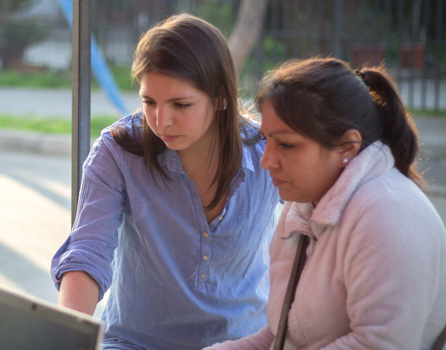
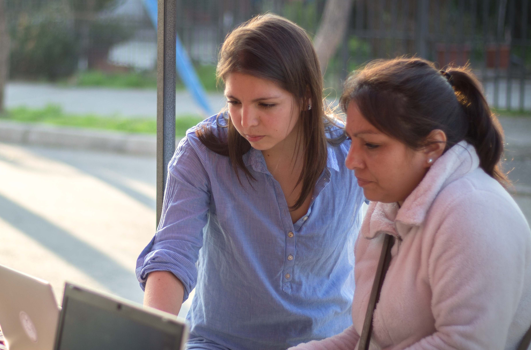
Fixes hero image and SVG

diff --git a/_includes/evaluation-img.html b/_includes/evaluation-img.html
@@ -1,7 +1,6 @@
-<svg xmlns="http://www.w3.org/2000/svg" width="100%" height="138" viewBox="0 0 178 138" xmlns:xlink="http://www.w3.org/1999/xlink">
+<svg xmlns="http://www.w3.org/2000/svg" width="178" height="138" viewBox="0 0 178 138" xmlns:xlink="http://www.w3.org/1999/xlink">
     <defs>
         <path id="a" d="M19.985.299v19.357H.115V.299h19.87z"/>
-        <path id="c" d="M0 42.822V.126h51.929v42.696z"/>
     </defs>
     <g fill="none" fill-rule="evenodd">
         <path fill="#FF8964" d="M104.348 106.893h-78.71v-9.491h3.266v6.419h75.444zM107.287 91.044h-3.266V10.431l-75.118-.59v37.694h-3.265V6.745l81.649.639z"/>
@@ -21,13 +20,6 @@
             <path fill="#FF8964" d="M7.367 19.01L.115 16.215 7.055.299l7.252 2.797c4.673 1.803 6.908 6.827 4.992 11.22-1.917 4.396-7.259 6.497-11.932 4.695" mask="url(#b)"/>
         </g>
         <path fill="#2D4059" d="M164.244 126.545l-3.021-1.166 4.708-10.798 3.022 1.166z"/>
-        <path fill="#FF5722" d="M108.576 119.017l-3.02-1.166 12.838-29.445c1.326-3.038 5.116-4.465 8.448-3.18 3.311 1.278 4.944 4.76 3.664 7.786l-2.026 5.85-3.105-.951 2.085-6.008c.641-1.471-.192-3.191-1.859-3.834-1.665-.644-3.543.03-4.185 1.503l-12.84 29.445zm39.352 14.183l-3.021-1.166 12.393-28.418c.683-1.568-.116-3.365-1.783-4.008-.807-.311-1.693-.308-2.499.008-.805.316-1.431.909-1.762 1.668l-.064.13-2.436 4.372-2.893-1.425 2.403-4.313c.67-1.484 1.907-2.642 3.491-3.265 1.609-.634 3.386-.641 5-.017 3.332 1.285 4.931 4.88 3.565 8.015L147.928 133.2zM38.62 78.632l-.163-3.068 9.88-.462c1.8 0 3.265-1.378 3.265-3.072 0-1.693-1.465-3.072-3.266-3.072l-.08-.001-9.799-.461.163-3.068 9.76.459c3.582.022 6.488 2.769 6.488 6.143 0 3.373-2.906 6.12-6.488 6.144l-9.76.458zM26.406 56.584l-3.168-.745 2.448-9.215c.89-3.344 3.89-5.771 7.138-5.771 3.74 0 7.02 2.87 7.02 6.144v9.214H36.58v-9.214c0-1.58-1.825-3.072-3.756-3.072-2.005 0-3.514 1.732-3.97 3.444l-2.448 9.215z"/>
-        <path fill="#FF5722" d="M38.617 88.769L38.46 85.7l10.203-.463c1.801 0 3.266-1.378 3.266-3.072 0-1.693-1.465-3.071-3.266-3.071l-.079-.002-10.124-.461.157-3.068 10.088.459c3.583.022 6.49 2.769 6.49 6.143 0 3.375-2.907 6.123-6.49 6.144l-10.088.459z"/>
-        <g transform="translate(0 55.624)">
-            <mask id="d" fill="#fff">
-                <use xlink:href="#c"/>
-            </mask>
-            <path fill="#FF5722" d="M43.764 42.822L9.3 42.669c-6.102 0-9.3-10.74-9.3-21.348C0 9.256 3.9.464 9.3.283V.28L45.39.126c3.609 0 6.539 2.756 6.539 6.144 0 3.367-2.896 6.11-6.47 6.142l-6.803.458-.234-3.064 6.976-.465c1.8 0 3.265-1.378 3.265-3.071 0-1.694-1.464-3.072-3.265-3.072L9.47 3.35c-2.591 0-6.205 6.836-6.205 17.97 0 11.323 3.519 18.276 6.042 18.276l34.464.154c1.793 0 3.259-1.38 3.259-3.072 0-1.694-1.466-3.072-3.267-3.072l-.152-.006-5.226-.461.305-3.06 5.155.456c3.564.04 6.45 2.78 6.45 6.143 0 3.388-2.93 6.143-6.532 6.143" mask="url(#d)"/>
-        </g>
+        <path fill="#FF5722" d="M108.576 119.017l-3.02-1.166 12.838-29.445c1.326-3.038 5.116-4.465 8.448-3.18 3.311 1.278 4.944 4.76 3.664 7.786l-2.026 5.85-3.105-.951 2.085-6.008c.641-1.471-.192-3.191-1.859-3.834-1.665-.644-3.543.03-4.185 1.503l-12.84 29.445zm39.352 14.183l-3.021-1.166 12.393-28.418c.683-1.568-.116-3.365-1.783-4.008-.807-.311-1.693-.308-2.499.008-.805.316-1.431.909-1.762 1.668l-.064.13-2.436 4.372-2.893-1.425 2.403-4.313c.67-1.484 1.907-2.642 3.491-3.265 1.609-.634 3.386-.641 5-.017 3.332 1.285 4.931 4.88 3.565 8.015L147.928 133.2zM48.663 85.238L38.46 85.7l.078 1.535-.152 1.529 5.225.46.153.007c1.8 0 3.266 1.378 3.266 3.072 0 1.693-1.466 3.072-3.259 3.072L9.308 95.22c-2.523 0-6.042-6.953-6.042-18.276 0-11.134 3.614-17.97 6.206-17.97l35.925-.153c1.801 0 3.266 1.378 3.266 3.072 0 1.693-1.465 3.07-3.266 3.07l-6.975.466.116 1.532-.08 1.534 9.797.46.082.002c1.801 0 3.265 1.378 3.265 3.072 0 1.694-1.464 3.072-3.265 3.072l-9.88.462.081 1.534-.078 1.534 10.124.46.08.003c1.8 0 3.265 1.378 3.265 3.07 0 1.695-1.465 3.073-3.266 3.073zm-19.809-37.87c.455-1.711 1.964-3.443 3.97-3.443 1.93 0 3.755 1.492 3.755 3.07v8.793l-9.974.042 2.25-8.462zm26.341 34.798c0-2.173-1.21-4.08-3.024-5.173 1.631-1.118 2.697-2.923 2.697-4.963 0-2.805-2.012-5.171-4.748-5.904 1.118-1.103 1.81-2.592 1.81-4.232 0-3.388-2.93-6.144-6.54-6.144l-5.545.024v-8.778c0-3.273-3.282-6.143-7.022-6.143-3.247 0-6.248 2.427-7.137 5.77l-2.449 9.216.026.005-13.962.06v.003c-5.4.18-9.3 8.973-9.3 21.038 0 10.608 3.195 21.348 9.3 21.348l34.463.153c3.602 0 6.532-2.755 6.532-6.143 0-1.525-.598-2.92-1.58-3.994 3.578-.027 6.48-2.772 6.48-6.143z"/>
     </g>
 </svg>
